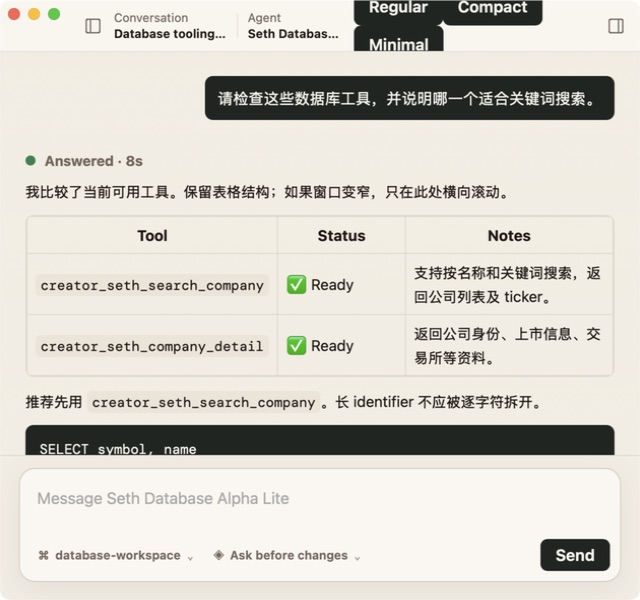
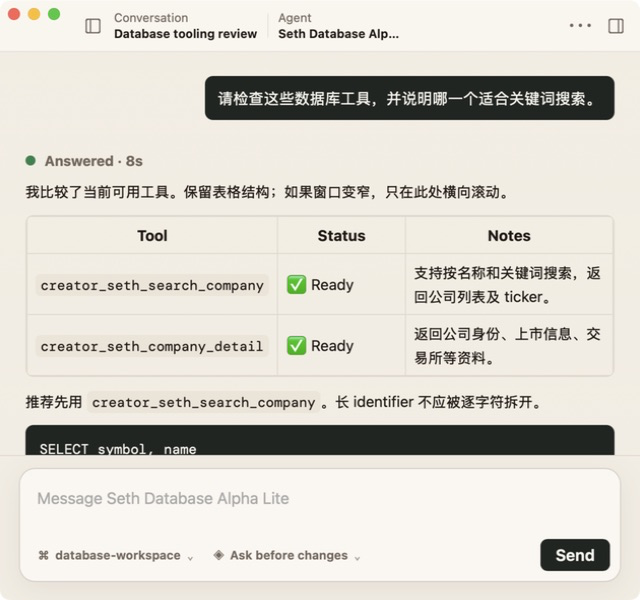
test desktop shell with clean native resize captures

Changed region(s): [[0.3438, 0.0, 0.875, 0.09]]

diff --git a/desktop-app/src/renderer/desktop-preview.jsx b/desktop-app/src/renderer/desktop-preview.jsx
@@ -1,4 +1,5 @@
 import React, { useEffect, useState } from "react";
+import { getCurrentWindow, LogicalSize } from "@tauri-apps/api/window";
 import { DesktopWindowShell } from "./desktop-shell.jsx";
 import { DESKTOP_LAYOUT } from "./desktop-layout.js";
 
@@ -14,17 +15,27 @@ const AGENTS = [
  */
 export function DesktopPreview() {
   useEffect(() => {
-    const title = "Hatch · Desktop UI UAT";
+    const title = "Hatch · Desktop Preview";
     document.title = title;
     if (!window.__TAURI_INTERNALS__) return undefined;
-    let cancelled = false;
-    void import("@tauri-apps/api/window").then(({ getCurrentWindow }) => {
-      if (cancelled) return;
-      const current = getCurrentWindow();
-      void current.setTitle(title);
-      void current.setFocus();
-    }).catch(() => {});
-    return () => { cancelled = true; };
+    const previewTier = String(import.meta.env.VITE_HATCH_DESKTOP_PREVIEW_TIER || "")
+      .trim()
+      .toLowerCase();
+    const previewSize = {
+      regular: { width: 1180, height: 780 },
+      compact: { width: 860, height: 600 },
+      minimal: { width: 640, height: 600 }
+    }[previewTier];
+    const current = getCurrentWindow();
+    void current.setTitle(title);
+    if (previewSize) {
+      // This is a development-only sizing harness that drives the real native
+      // window. It deliberately lives outside the product shell, so captures
+      // do not need fake in-page tier buttons or viewport CSS tricks.
+      void current.setSize(new LogicalSize(previewSize.width, previewSize.height));
+    }
+    void current.setFocus();
+    return undefined;
   }, []);
   const [sidebarPreference, setSidebarPreference] = useState("open");
   const [inspectorPreference, setInspectorPreference] = useState("open");

diff --git a/desktop-app/src/renderer/desktop-shell.jsx b/desktop-app/src/renderer/desktop-shell.jsx
@@ -409,7 +409,15 @@ function useShellResize(shellRef, setTier) {
       if (Number.isFinite(width)) update(width);
     });
     observer.observe(shell);
-    return () => observer.disconnect();
+    // Native window resize events are the authoritative fallback when a
+    // WebView compositor briefly reports its previous content width while the
+    // NSWindow/ HWND frame is being committed (notably at the minimum size).
+    const onWindowResize = () => update(window.innerWidth);
+    window.addEventListener("resize", onWindowResize);
+    return () => {
+      observer.disconnect();
+      window.removeEventListener("resize", onWindowResize);
+    };
   }, [shellRef, setTier]);
 }
 

diff --git a/desktop-app/src/renderer/main.jsx b/desktop-app/src/renderer/main.jsx
@@ -155,7 +155,10 @@ function DesktopAuxiliaryWindow({ kind }) {
 }
 
 function App() {
-  if (import.meta.env.DEV && import.meta.env.VITE_HATCH_DESKTOP_PREVIEW === "1") {
+  // The preview is opt-in at build time and is never enabled by normal dev,
+  // release, or distribution builds. Keeping the switch environment-based
+  // also lets the static debug bundle exercise a real native window for UAT.
+  if (import.meta.env.VITE_HATCH_DESKTOP_PREVIEW === "1") {
     return <DesktopPreview />;
   }
   const auxiliaryMode = auxiliaryWindowMode();

diff --git a/docs/proof/desktop-ui/README.md b/docs/proof/desktop-ui/README.md
@@ -8,10 +8,26 @@ For the requirement-by-requirement status and explicit evidence boundaries, see
 [acceptance-matrix.md](acceptance-matrix.md).
 
 The regular/compact/minimal captures use the development-only `DesktopPreview`
-fixture and a sizing harness so the shell can be exercised without an account;
-they prove pane composition and structured-content behavior, not cloud
-Conversation or Run persistence. The final sign-in capture is from the built
-ad-hoc `.app`.
+fixture and an environment-selected native window size, so the shell can be
+exercised without an account. There are no in-page tier controls: the preview
+calls the Tauri window sizing API, then the same `ResizeObserver`/native resize
+path drives the production shell's layout tier. These captures prove pane
+composition and structured-content behavior, not cloud Conversation or Run
+persistence. The final sign-in capture is from the built ad-hoc `.app`.
+
+The clean capture commands are:
+
+```text
+VITE_HATCH_DESKTOP_PREVIEW=1 VITE_HATCH_DESKTOP_PREVIEW_TIER=regular \
+  npx tauri build --debug --bundles app --config '{"identifier":"dev.hatch.preview"}'
+VITE_HATCH_DESKTOP_PREVIEW=1 VITE_HATCH_DESKTOP_PREVIEW_TIER=compact \
+  npx tauri build --debug --bundles app --config '{"identifier":"dev.hatch.preview"}'
+VITE_HATCH_DESKTOP_PREVIEW=1 VITE_HATCH_DESKTOP_PREVIEW_TIER=minimal \
+  npx tauri build --debug --bundles app --config '{"identifier":"dev.hatch.preview"}'
+```
+
+The preview flag is opt-in and is not set by normal development, release, or
+distribution builds.
 
 | Capture | What it proves |
 | --- | --- |

diff --git a/docs/proof/desktop-ui/acceptance-matrix.md b/docs/proof/desktop-ui/acceptance-matrix.md
@@ -47,4 +47,4 @@ desktop-app: npm run build  # strict ad-hoc DMG UAT
 ```
 
 `npm run build:app` 与 `npm run build` 产物是 ad-hoc/UAT `.app`/DMG，当前验证的 DMG 为
-`Hatch_0.1.0_aarch64.dmg`（`sha256:e4a14f07a3af3d30bcd4102e8682e6b71073e51ed88dbf5ca4f6177a5b9b11d4`）。它们不是可发布的 notarized artifact。正式发布必须在 CI 注入真实 Developer ID/Team ID，并完成签名、notarization、安装后重启和无 prompt 验收。
+`Hatch_0.1.0_aarch64.dmg`（`sha256:79440b3d220c0a04bd39a0529805189fffd0234f94ae02339c0786fafeb1aef3`）。它们不是可发布的 notarized artifact。正式发布必须在 CI 注入真实 Developer ID/Team ID，并完成签名、notarization、安装后重启和无 prompt 验收。
